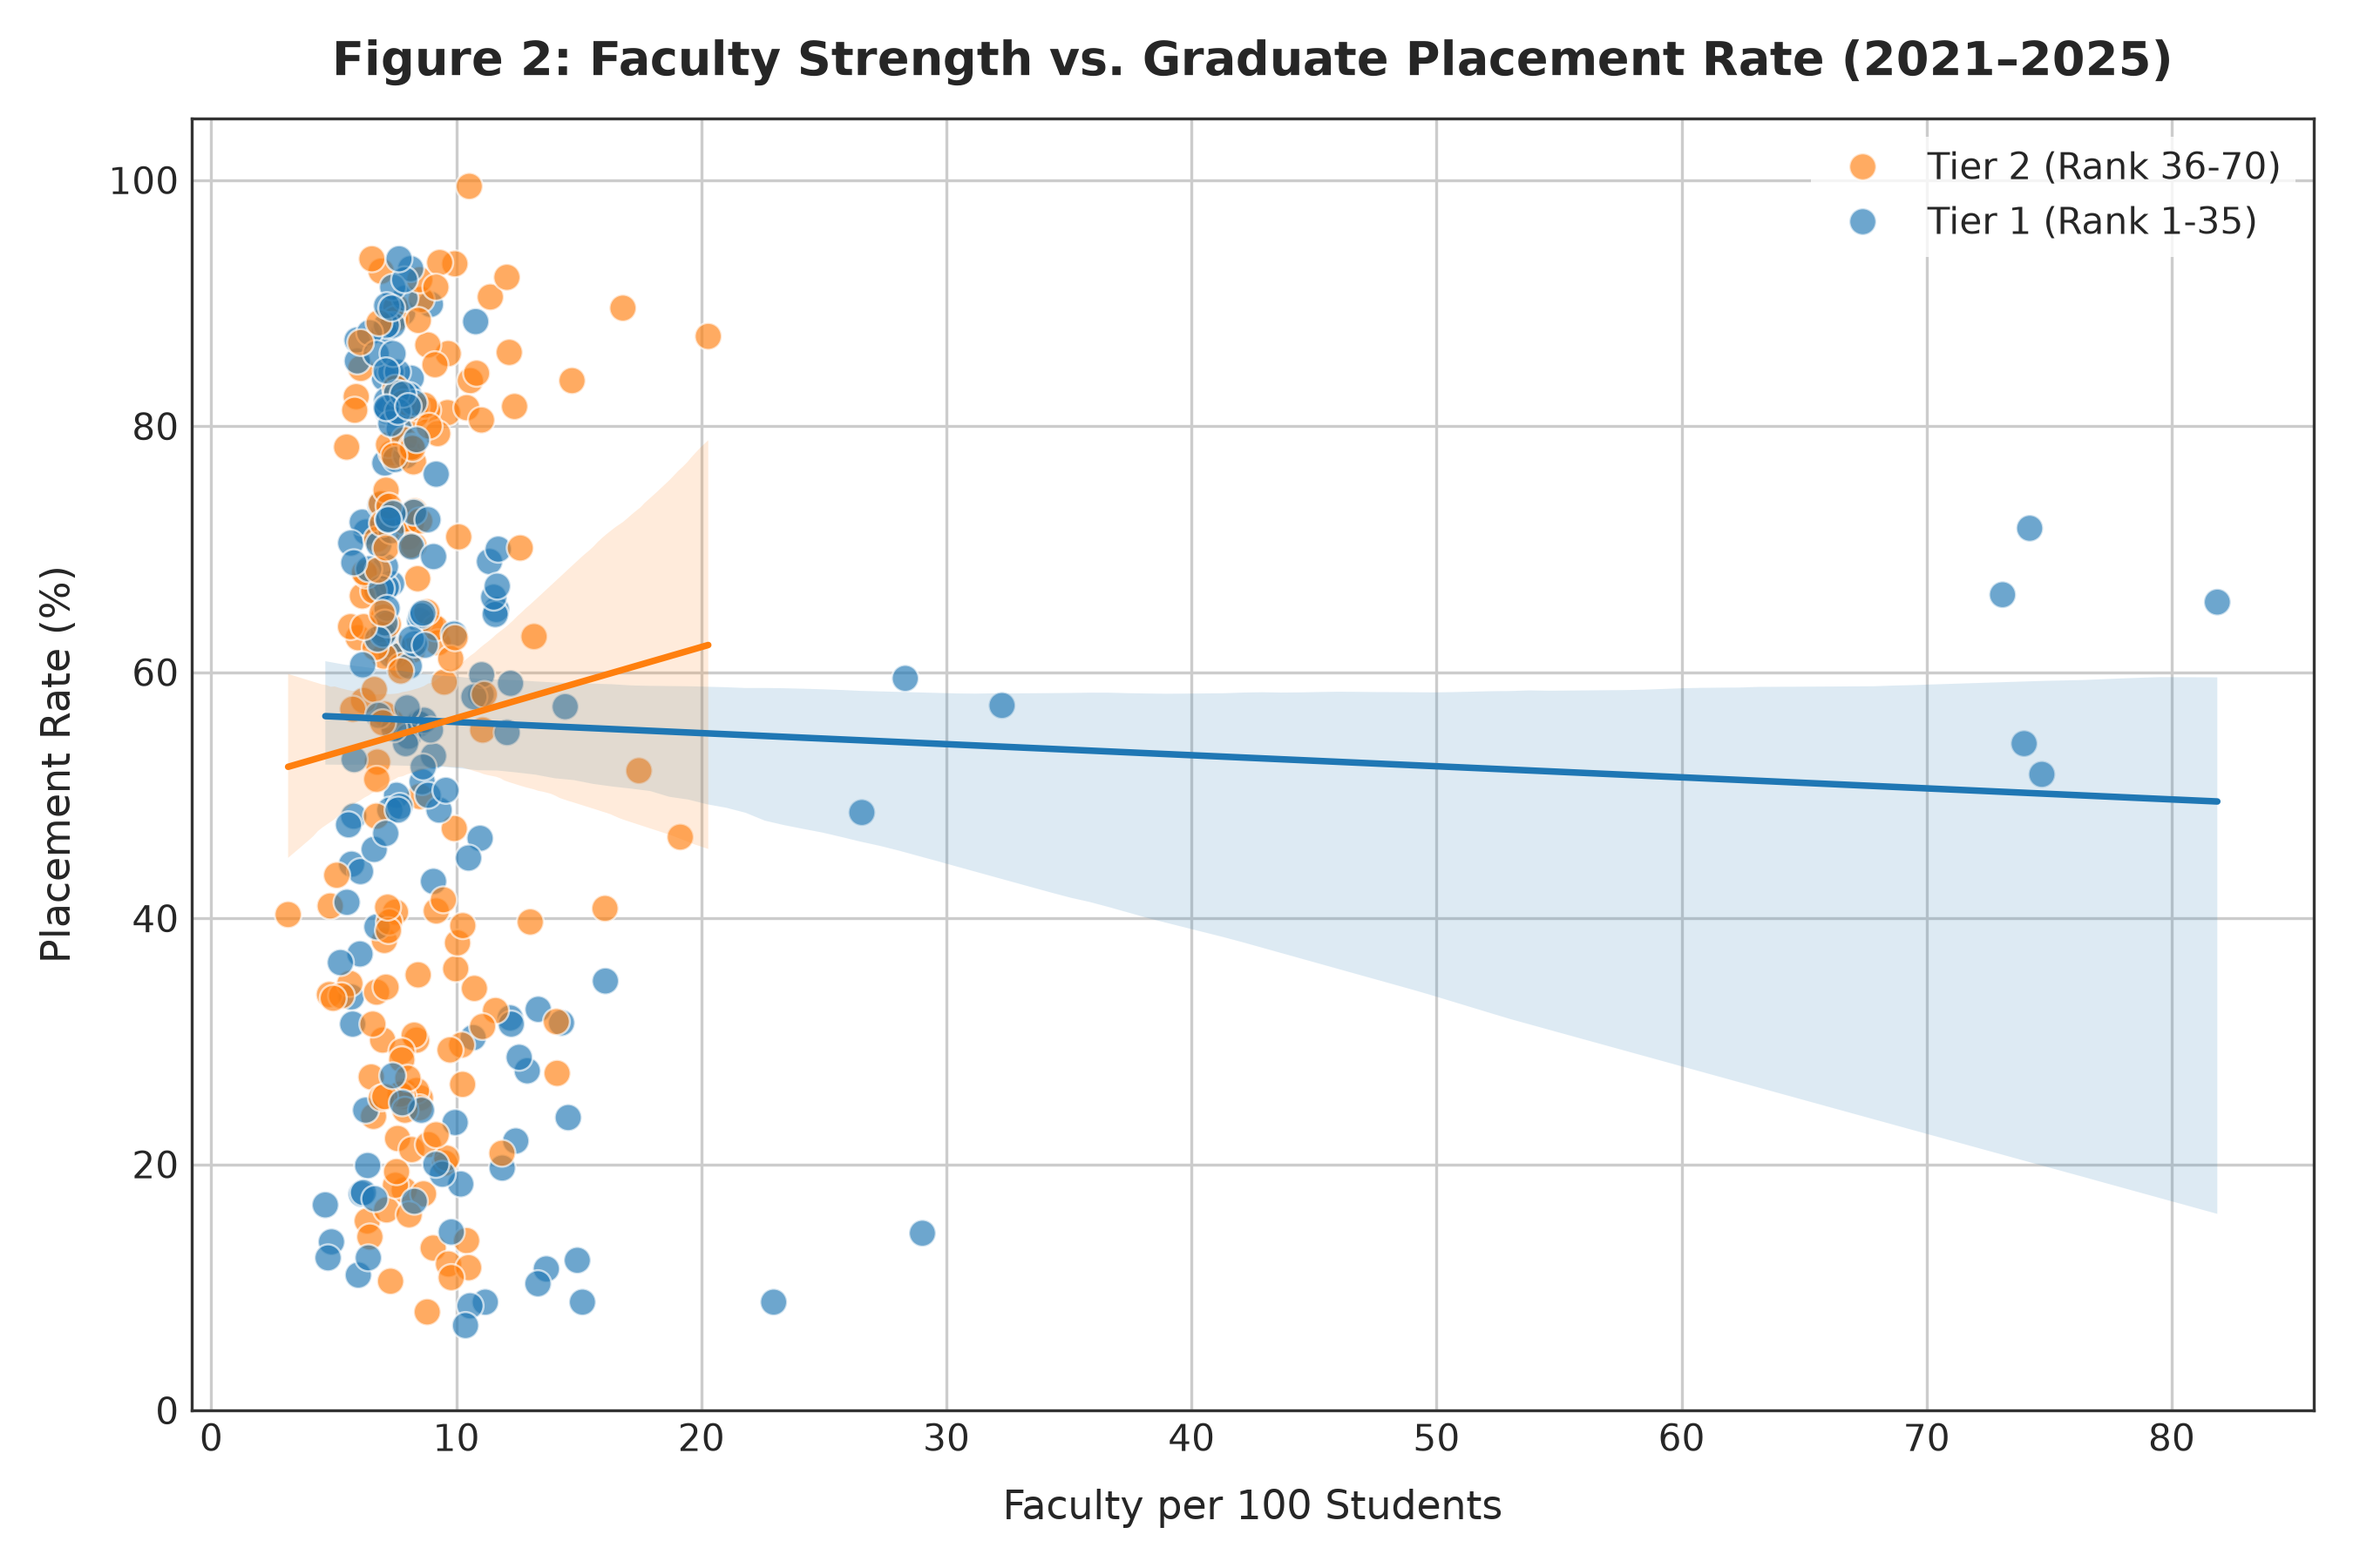
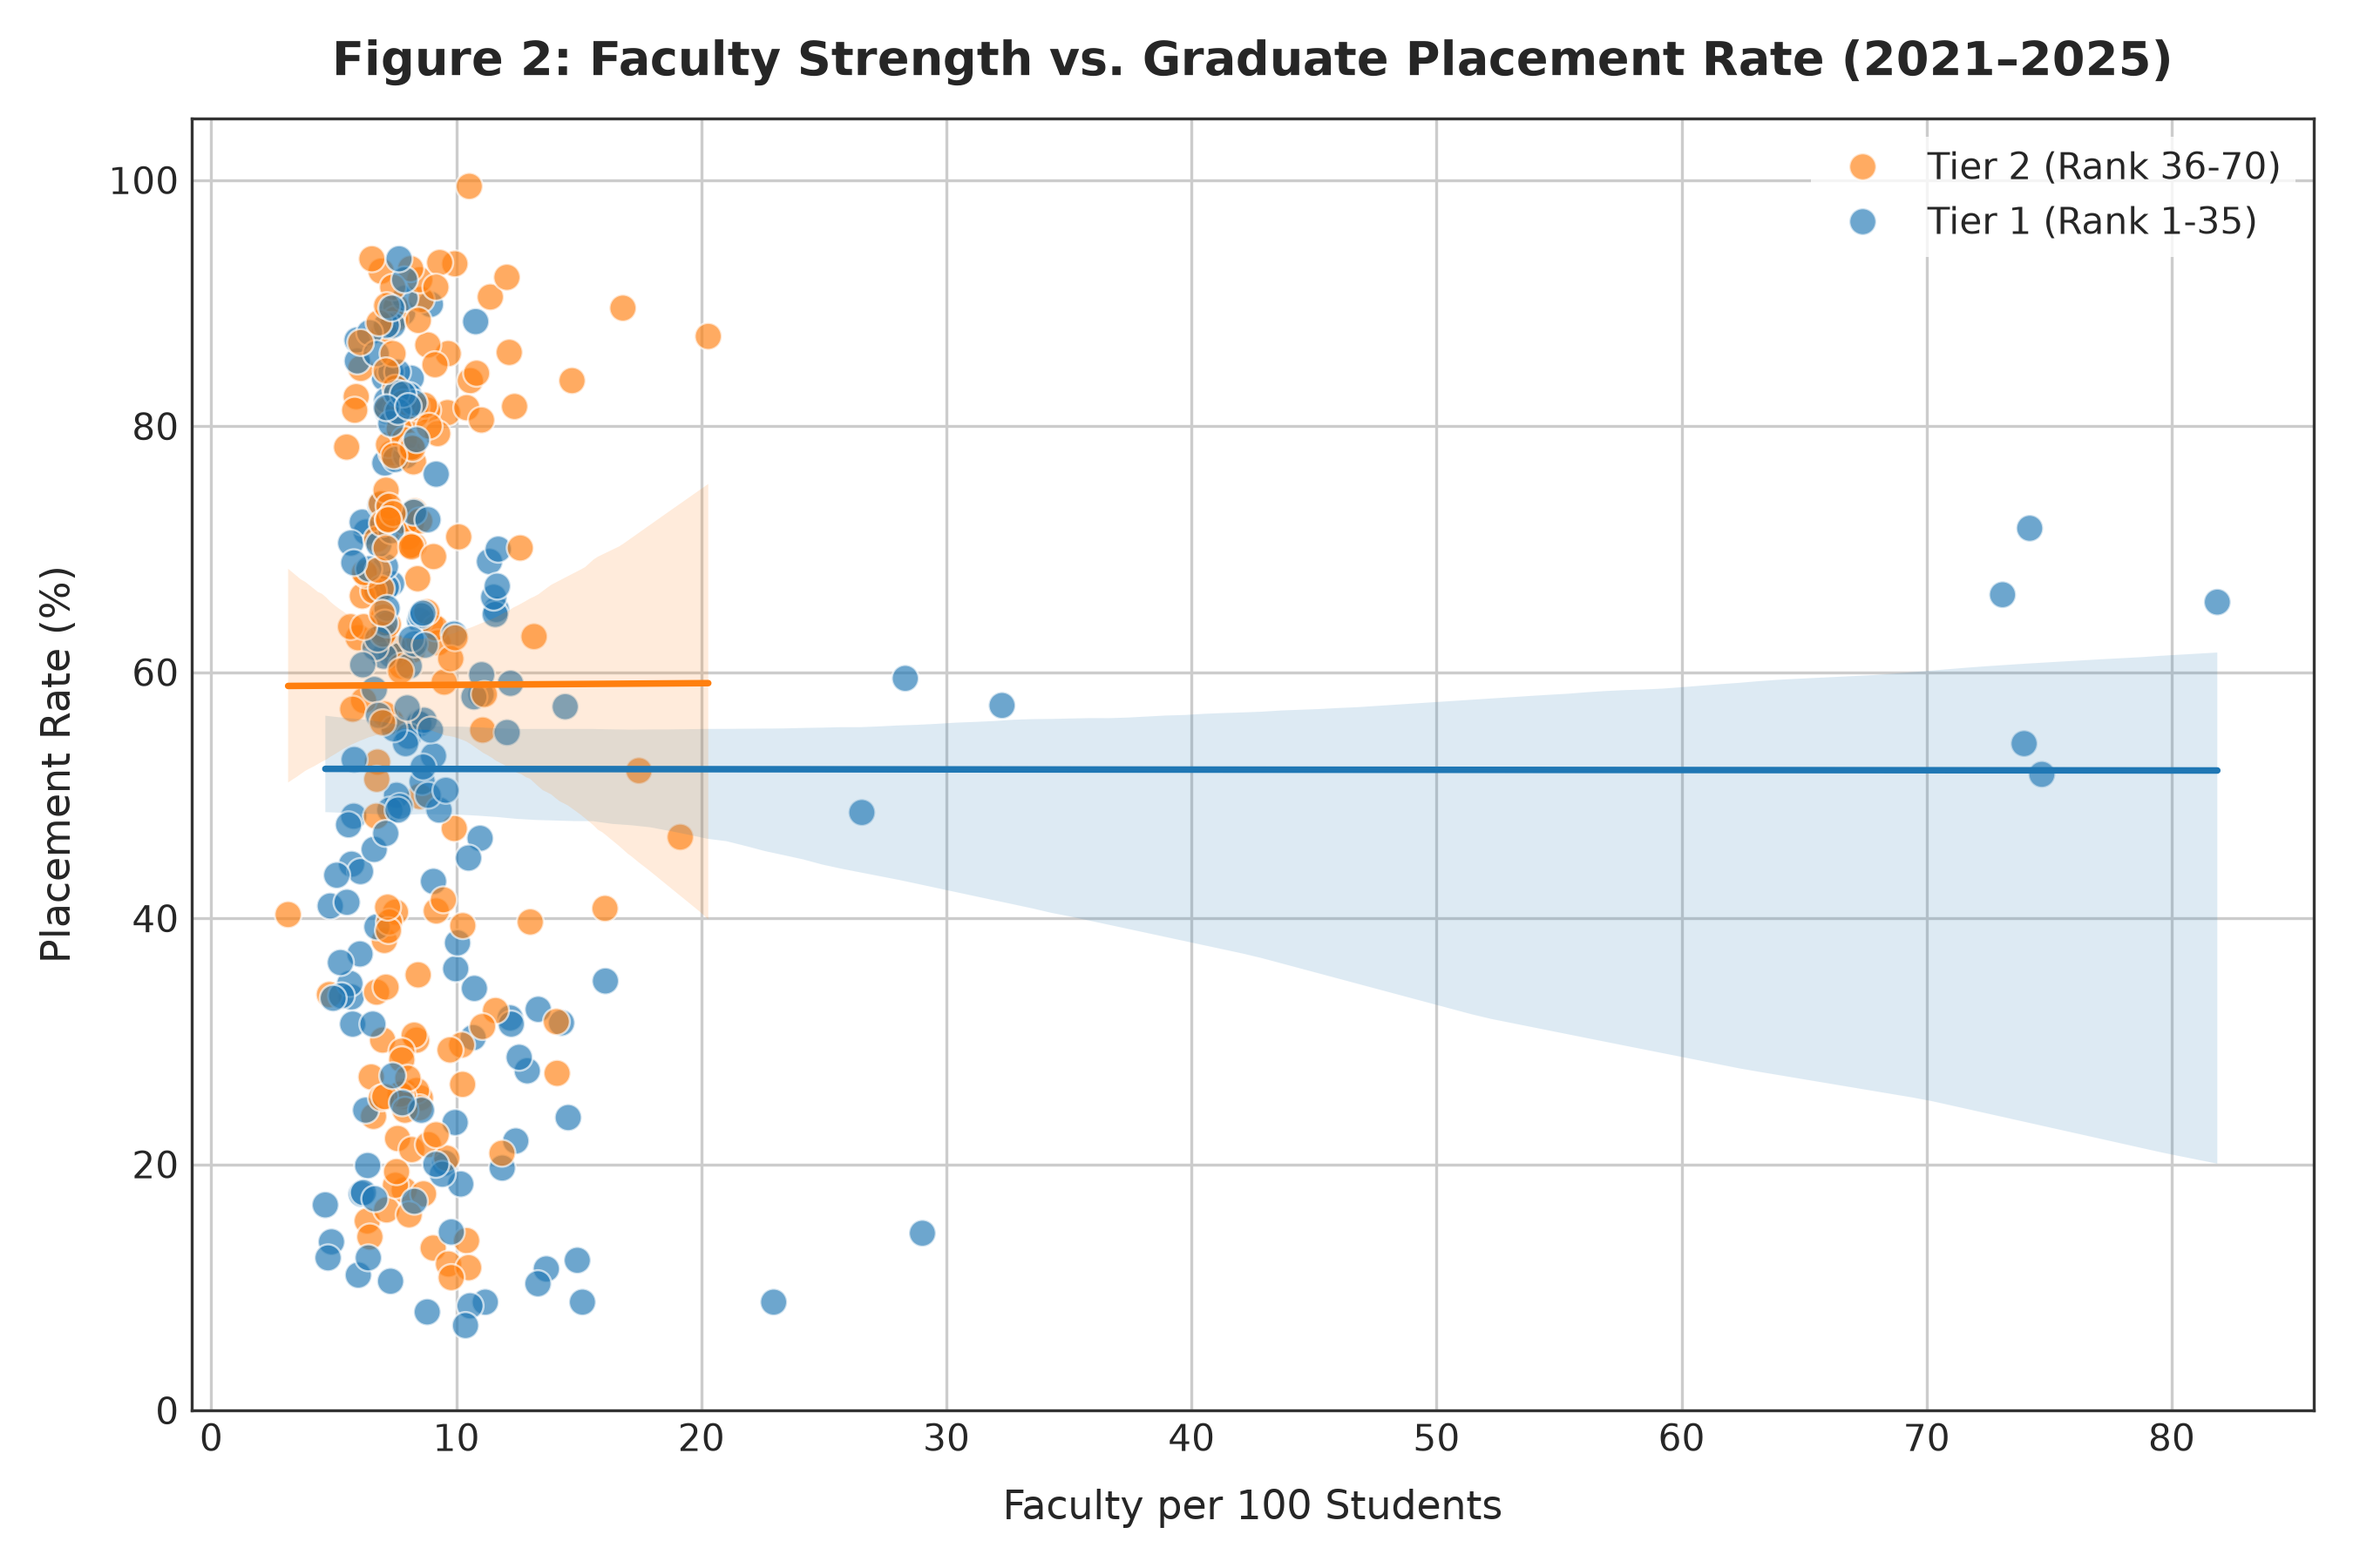
feat(part-a): assign baseline 2021 rank tiers and refresh Part A figures

diff --git a/analysis/part_a_patterns_and_viz.py b/analysis/part_a_patterns_and_viz.py
@@ -39,10 +39,10 @@ plt.rcParams["axes.linewidth"] = 0.8
 
 
 def assign_rank_tiers(df: pd.DataFrame) -> pd.DataFrame:
-    """Assign institutions to Tier 1 (Rank 1-35) or Tier 2 (Rank 36-70) based on 5-year median rank."""
+    """Assign institutions to Tier 1 (Rank 1-35) or Tier 2 (Rank 36-70) based on baseline (2021) rank."""
     df = df.copy()
-    median_rank = df.groupby("institute_id")["rank"].median()
-    tier_map = {iid: ("Tier 1 (Rank 1-35)" if r <= 35 else "Tier 2 (Rank 36-70)") for iid, r in median_rank.items()}
+    rank_2021 = df[df["year"] == 2021].set_index("institute_id")["rank"]
+    tier_map = {iid: ("Tier 1 (Rank 1-35)" if r <= 35 else "Tier 2 (Rank 36-70)") for iid, r in rank_2021.items()}
     df["tier"] = df["institute_id"].map(tier_map)
     return df
 
